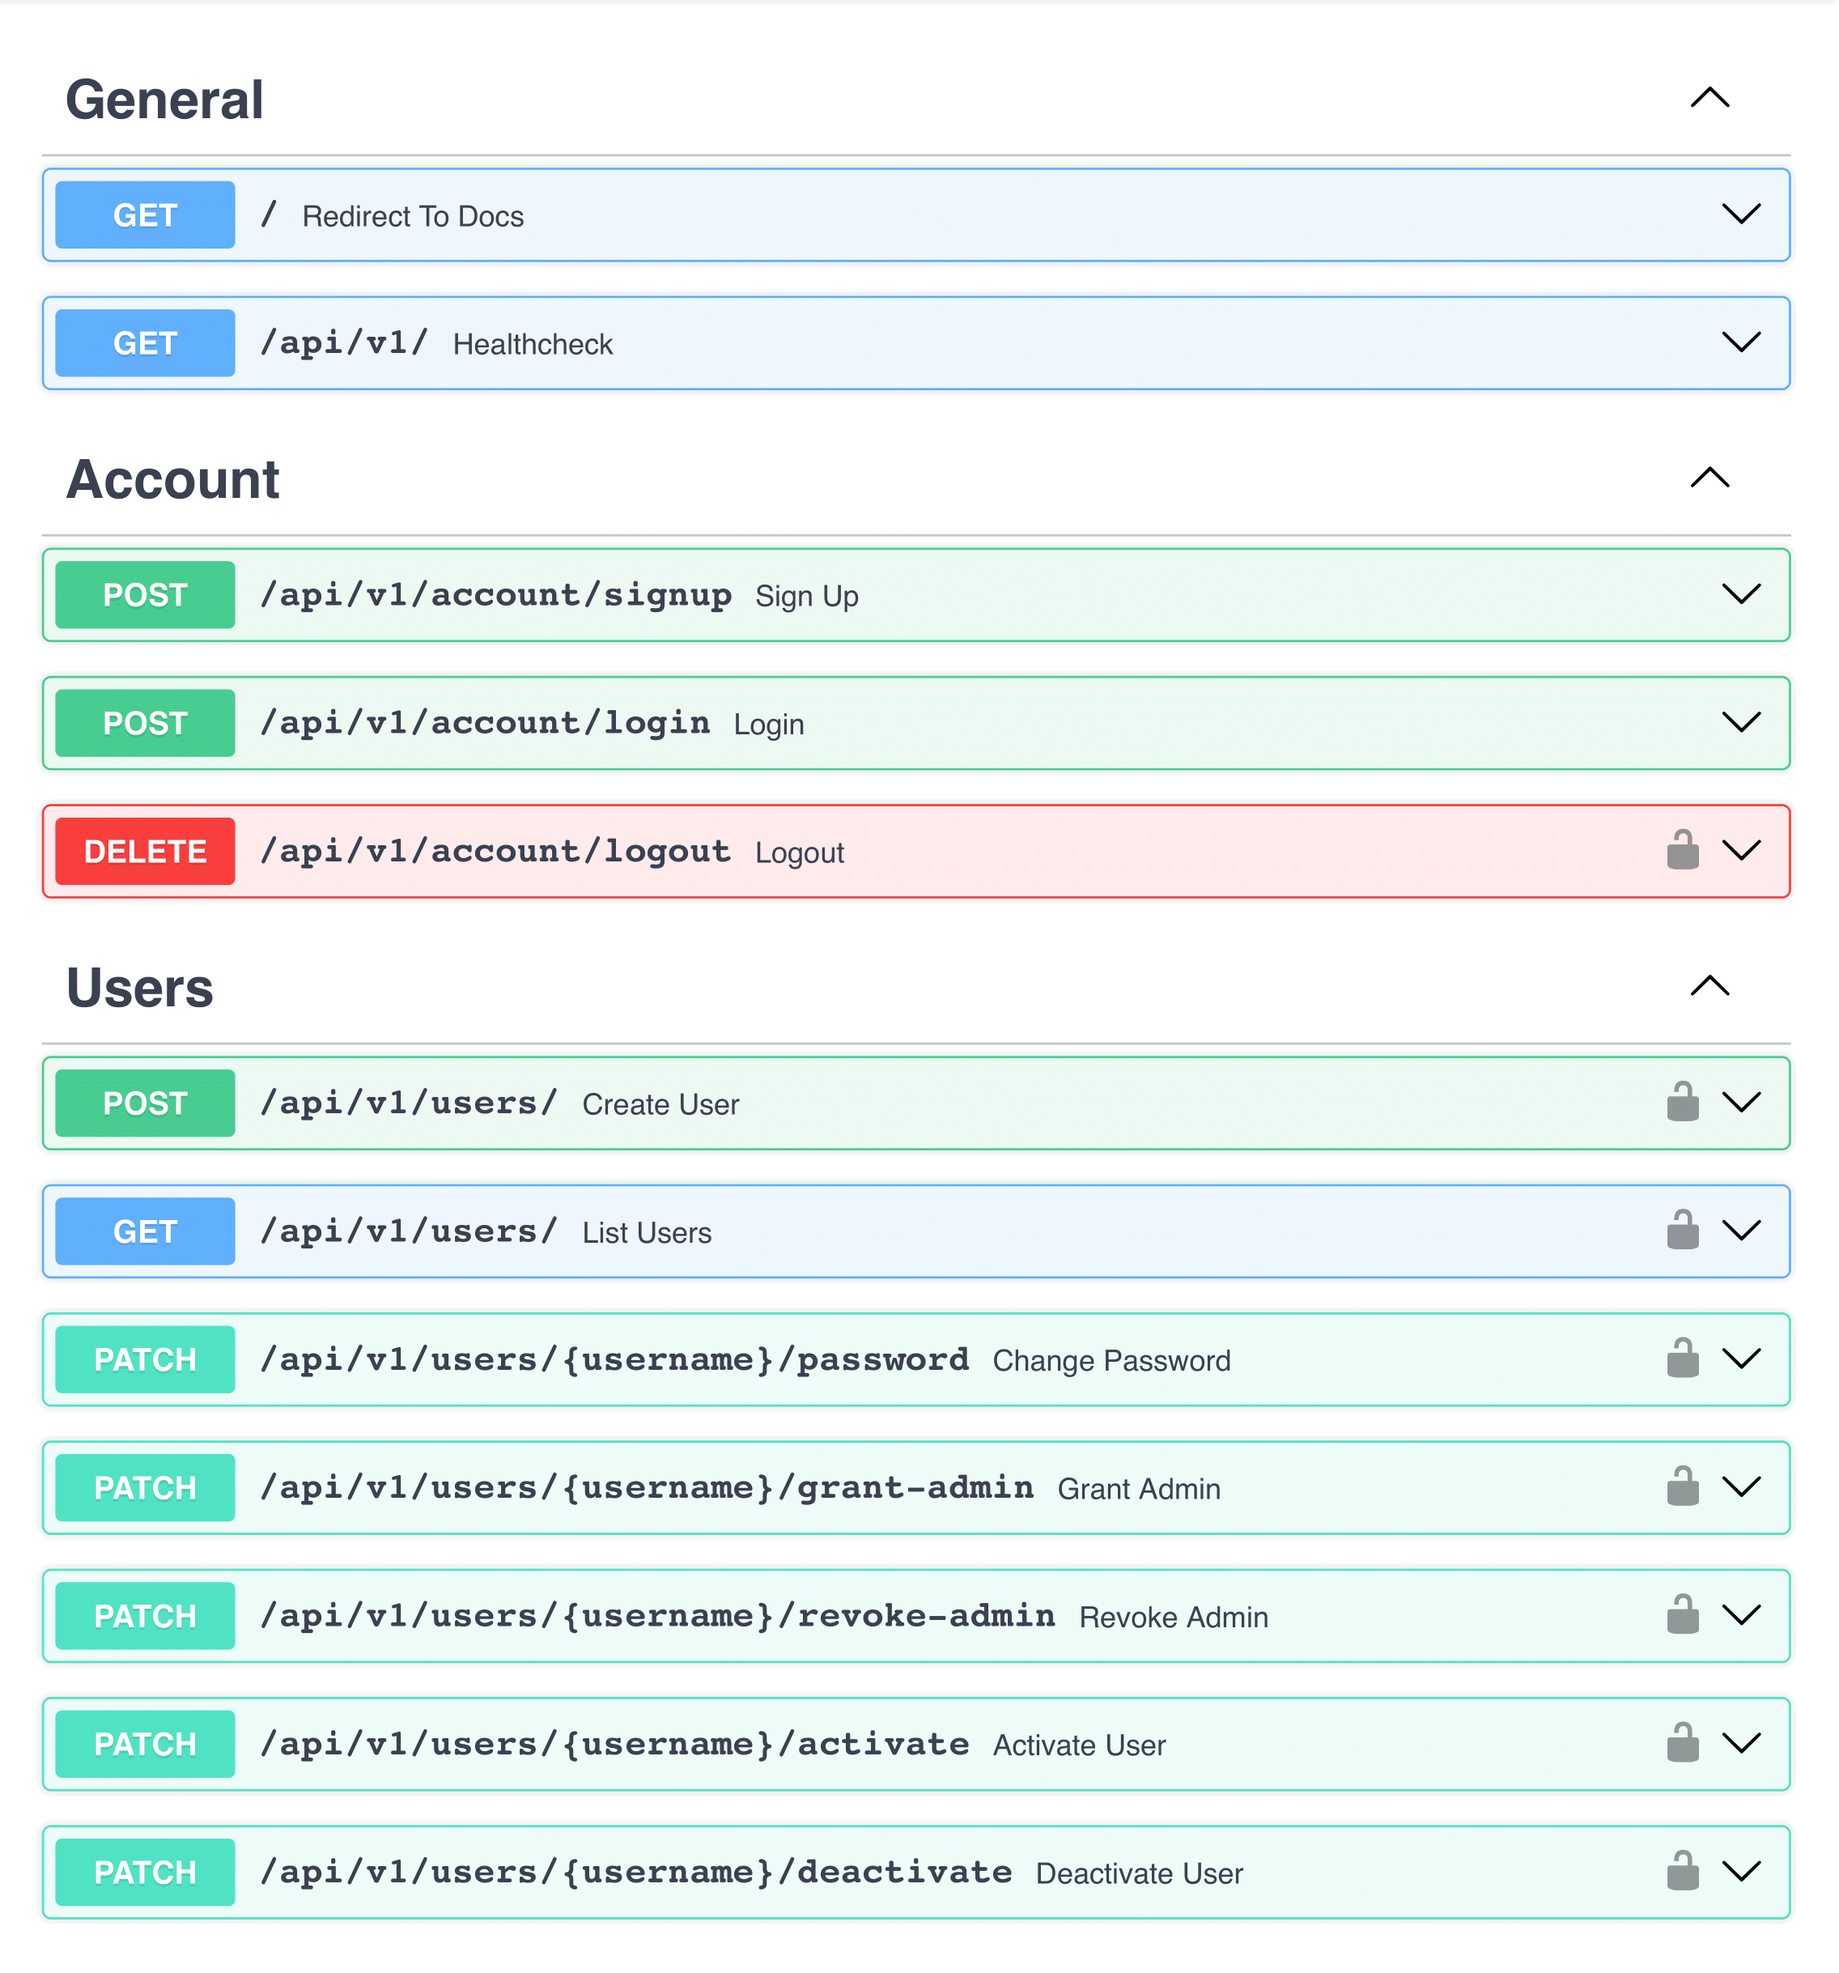
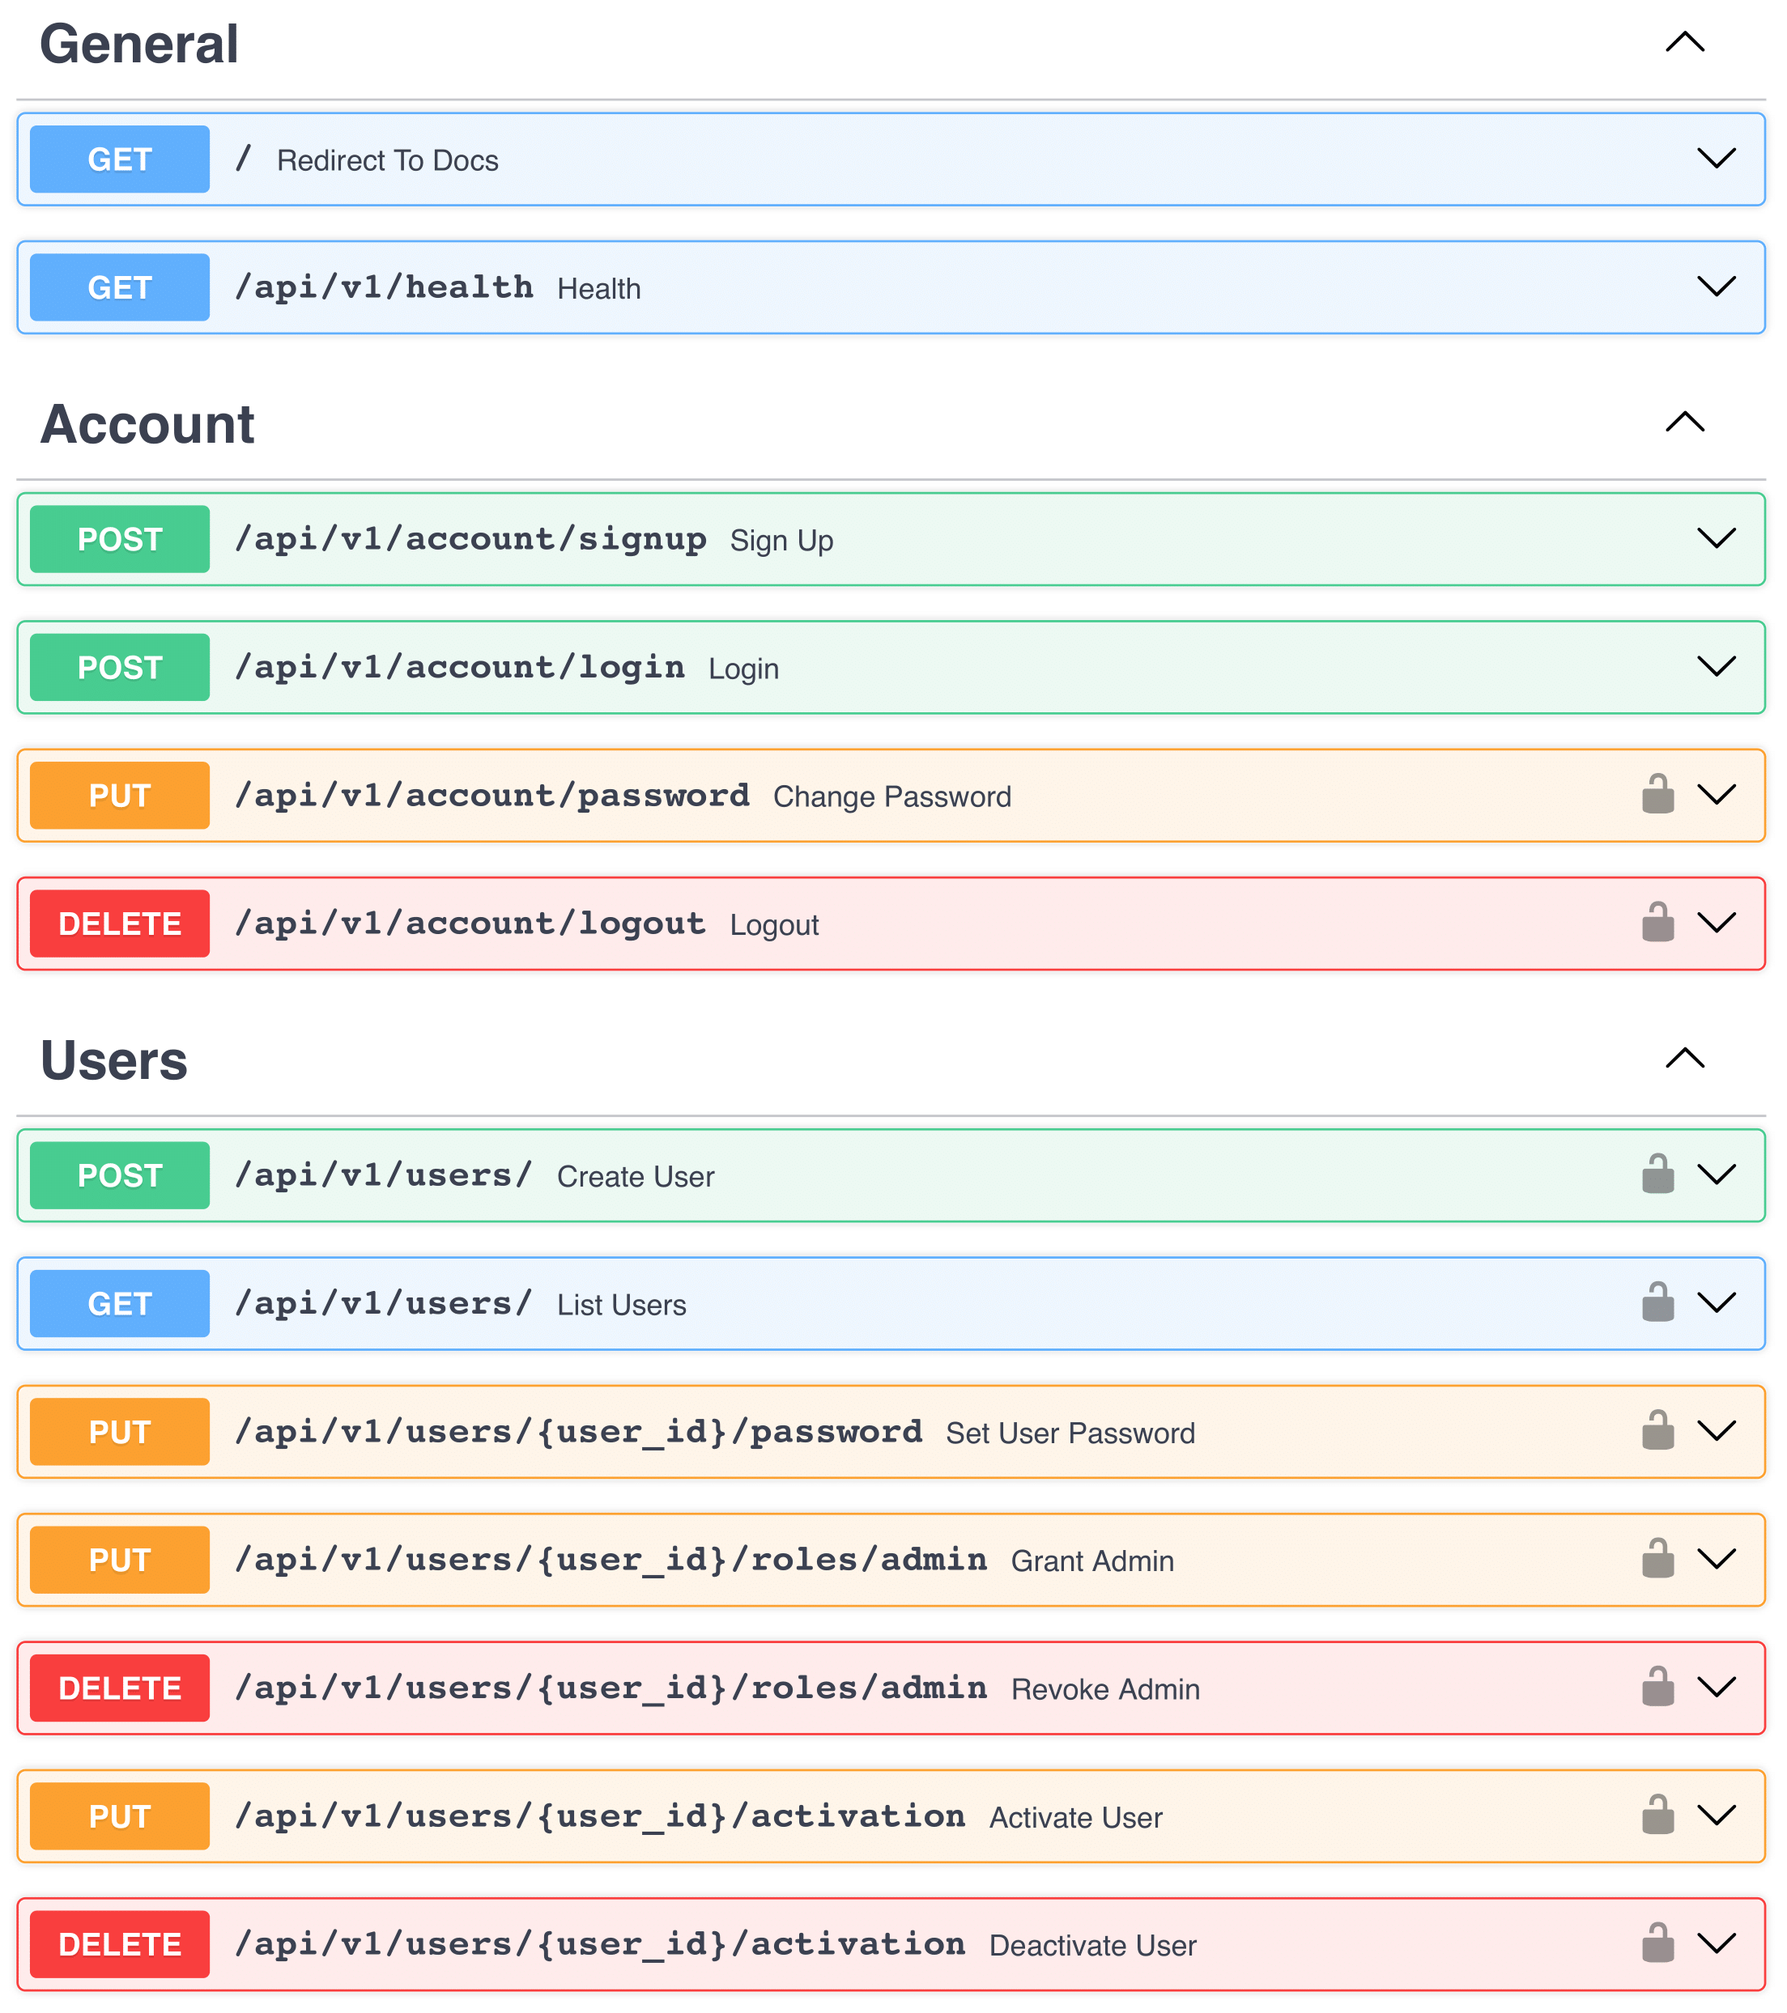
Align docs with recent changes

Changed region(s): [[0.0, 0.0, 1.0, 0.9979], [0.8935, 0.0312, 0.9551, 0.0624]]

diff --git a/src/app/infrastructure/auth/handlers/change_password.py b/src/app/infrastructure/auth/handlers/change_password.py
@@ -56,7 +56,6 @@ class ChangePasswordHandler:
         current_user = await self._current_user_service.get_current_user(
             for_update=True
         )
-        # TODO: update docs
 
         current_password = RawPassword(request_data.current_password)
         new_password = RawPassword(request_data.new_password)

diff --git a/src/app/application/commands/revoke_admin.py b/src/app/application/commands/revoke_admin.py
@@ -32,7 +32,7 @@ class RevokeAdminInteractor:
     """
     - Open to super admins.
     - Revokes admin rights from a specified user.
-    - Super admin rights can not be changed
+    - Super admin rights cannot be changed
     """
 
     def __init__(

diff --git a/src/app/application/commands/grant_admin.py b/src/app/application/commands/grant_admin.py
@@ -34,7 +34,7 @@ class GrantAdminInteractor:
     """
     - Open to super admins.
     - Grants admin rights to a specified user.
-    - Super admin rights can not be changed.
+    - Super admin rights cannot be changed.
     """
 
     def __init__(

diff --git a/README.md b/README.md
@@ -40,12 +40,12 @@ If they're new to you, refer to the [Useful Resources](#useful-resources) sectio
 
 ## Introduction
 
-This repository may be helpful for those seeking a backend implementation in Python that is both framework-agnostic
+This repository may be helpful for those seeking backend implementation in Python that is both framework-agnostic
 and storage-agnostic (unlike Django).
 Such flexibility can be achieved by using a web framework that doesn't impose strict software design (like FastAPI) and
 applying a layered architecture patterned after the one proposed by Robert Martin, which we'll explore further.
 
-The original explanation of the Clean Architecture concepts can be
+The original explanation of Clean Architecture concepts can be
 found [here](https://blog.cleancoder.com/uncle-bob/2012/08/13/the-clean-architecture.html).
 If you're still wondering why Clean Architecture matters, read the article — it only takes about 5 minutes.
 In essence, it’s about making your application independent of external systems and highly testable.
@@ -64,7 +64,7 @@ Being closer to implementation details, less abstract policies are more likely t
 **Layer** represents a collection of components expressing policies at the same level of abstraction.
 
 Concentric circles represent boundaries between different layers.
-The meaning of the arrows in the diagram will be discussed [later](#dependency-rule).
+The meaning of arrows in the diagram will be discussed [later](#dependency-rule).
 For now, we will focus on the purpose of the layers.
 
 ## Layered Approach
@@ -72,7 +72,7 @@ For now, we will focus on the purpose of the layers.
 ![#gold](https://placehold.co/15x15/gold/gold.svg) **Domain Layer**
 
 - **Domain model** is a set of concepts, rules and behaviors that define what business (context) is and how it operates.
-  It is expressed in a **ubiquitous language** — a consistent terminology shared by developers and domain experts.
+  It is expressed in **ubiquitous language** — consistent terminology shared by developers and domain experts.
   Domain layer implements domain model in code; this implementation is often called domain model.
 - The strictest domain rules are **invariants** — conditions that must always hold true for the model.
   Enforcing invariants means maintaining data consistency in the model.
@@ -92,16 +92,16 @@ For now, we will focus on the purpose of the layers.
       For components: anemic means no behavior within, rich — the contrary.
 - Domain services originally represent operations that don't naturally belong to a specific entity or value object.
   But in projects with anemic entities, they can also contain logic that would otherwise be in those entities.
-- In the early stages of development when the domain model is not yet clearly defined, 
+- In early stages of development when the domain model is not yet clearly defined,
   I'd recommend keeping entities flat and anemic, even though the latter weakens encapsulation.
-  Once the core logic is well established, some entities can, as aggregate roots, become non-flat and rich.
+  Once core logic is well established, some entities can, as aggregate roots, become non-flat and rich.
   This best enforces invariants but can be tricky to design once and for all.
 - Prefer rich value objects early, freeing entities and services from an excessive burden of local rules.
 - Consider domain layer the most important, stable, and independent part of a system.
 
 ![#red](https://placehold.co/15x15/red/red.svg) **Application Layer**
 
-- This layer implements the application-specific business logic by realizing steps of business-defined _**use cases**_.
+- This layer implements application-specific business logic by realizing steps of business-defined _**use cases**_.
 - Its main components are **interactors** — each handles a single business operation matching a step within a use case.
 - An interactor **orchestrates** domain logic and external calls needed to perform the operation.
 - Interactors are stateless, isolated, and do not call each other. Each is invoked independently — typically by external
@@ -167,7 +167,7 @@ In other words, dependencies must never point outwards within the application's 
 
 ### Note on Adapters
 
-The **Infrastructure layer** in the Clean Architecture acts as the adapter layer — connecting the application to
+The **Infrastructure layer** in Clean Architecture acts as the adapter layer — connecting the application to
 external systems.
 In this project, we treat both **Infrastructure** and **Presentation** as adapters, since both adapt the application to
 the outside world.
@@ -181,7 +181,7 @@ It doesn't strictly follow R. Martin's original concept but avoids introducing e
 implementations outside the application's boundaries.
 Pursuing purity on the outermost layer is more likely to result in overengineering than in practical gains.
 
-My approach retains nearly all the advantages of Clean Architecture while simplifying real-world development.
+My approach retains nearly all advantages of Clean Architecture while simplifying real-world development.
 When needed, adapters can be removed along with the external components they're written for, which isn't a
 significant issue.
 
@@ -207,7 +207,7 @@ Let's agree, for this project, that Dependency Rule **does not apply to adapters
 > external compared to typical adapters.
 
 - This layer handles external requests and includes **controllers** that validate inputs and pass them to the
-  interactors in the Application layer. The more abstract layers of the program assume that request data is already
+  interactors in the Application layer. More abstract layers of the program assume that request data is already
   validated, allowing them to focus solely on their core logic.
 - Controllers must be as thin as possible, containing no logic beyond basic input validation and routing. Their
   role is to act as an intermediary between the application and external systems (e.g., FastAPI).
@@ -230,8 +230,8 @@ Let's agree, for this project, that Dependency Rule **does not apply to adapters
 ![#gray](https://placehold.co/15x15/gray/gray.svg) **External Layer**
 
 > [!NOTE]
-> In the original diagram, the external components are included in the blue layer (Frameworks & Drivers).
-> I've marked them in gray to clearly distinguish them from the layers within the application's boundaries.
+> In the original diagram, external components are included in the blue layer (Frameworks & Drivers).
+> I've marked them in gray to clearly distinguish them from layers within the application's boundaries.
 
 - This layer represents fully external components such as web frameworks (e.g. FastAPI itself), databases, third-party
   APIs, and other services.
@@ -246,7 +246,7 @@ Let's agree, for this project, that Dependency Rule **does not apply to adapters
 ## Dependency Inversion
 
 The **dependency inversion** technique enables reversing dependencies **by introducing an interface** between
-components, allowing the inner layer to communicate with the outer layer while adhering to the Dependency Rule.
+components, allowing an inner layer to communicate with an outer layer while adhering to the Dependency Rule.
 
 <p align="center">
   <img src="docs/dep_graph_inv_corrupted.svg" alt="Corrupted Dependency" />
@@ -265,10 +265,10 @@ affect the Application layer.
 
 In the correct design, the Application layer component depends on an **abstraction (port)**, and the Infrastructure
 layer component **implements** the corresponding interface.
-This makes the Infrastructure component an adapter for the port, effectively turning it into a plugin for the
+This makes the Infrastructure component an adapter for the port, effectively turning it into a plugin for
 Application layer.
 Such a design adheres to the **Dependency Inversion Principle (DIP)**, minimizing the impact of infrastructure changes
-on the core business logic.
+on core business logic.
 
 ## Dependency Injection
 
@@ -279,7 +279,7 @@ From this definition, it's clear that one common way to implement DI is by passi
 
 But how exactly should these dependencies be initialized (and finalized)?
 
-**DI frameworks** offer an elegant solution by automatically creating the necessary objects (while managing their
+**DI frameworks** offer an elegant solution by automatically creating necessary objects (while managing their
 **lifecycle**) and injecting them where needed.
 This makes the process of dependency injection much cleaner and easier to manage.
 
@@ -487,23 +487,26 @@ natural.
 
 ### General
 
-- `/`: Open to **everyone**.
+- `/` (GET): Open to **everyone**.
     - Redirects to Swagger documentation.
-- `/api/v1/`: Open to **everyone**.
+- `/api/v1/health` (GET): Open to **everyone**.
     - Returns `200 OK` if the API is alive.
 
 ### Account (`/api/v1/account`)
 
-- `/signup`: Open to **everyone**.
+- `/signup` (POST): Open to **everyone**.
     - Registers a new user with validation and uniqueness checks.
     - Passwords are peppered, salted, and stored as hashes.
     - A logged-in user cannot sign up until the session expires or is terminated.
-- `/login`: Open to **everyone**.
+- `/login` (POST): Open to **everyone**.
     - Authenticates registered user, sets a JWT access token with a session ID in cookies, and creates a session.
     - A logged-in user cannot log in again until the session expires or is terminated.
     - Authentication renews automatically when accessing protected routes before expiration.
     - If the JWT is invalid, expired, or the session is terminated, the user loses authentication. [^1]
-- `/logout`: Open to **authenticated users**.
+- `/password` (PUT): Open to **authenticated users**.
+    - The current user can change their password.
+    - New password must differ from current password.
+- `/logout` (DELETE): Open to **authenticated users**.
     - Logs the user out by deleting the JWT access token from cookies and removing the session from the database.
 
 ### Users (`/api/v1/users`)
@@ -513,20 +516,18 @@ natural.
     - Only super admins can create new admins.
 - `/` (GET): Open to **admins**.
     - Retrieves a paginated list of existing users with relevant information.
-- `/{username}/password`: Open to **authenticated users**.
-    - Changes the user's password.
-    - The current user can change their own password.
-    - Admins can change passwords of subordinate users.
-- `/{username}/grant-admin`: Open to **super admins**.
+- `/{user_id}/password` (PUT): Open to **admins**.
+    - Admins can set passwords of subordinate users.
+- `/{user_id}/roles/admin` (PUT): Open to **super admins**.
     - Grants admin rights to a specified user.
-    - Super admin rights can not be changed.
-- `/{username}/revoke-admin`: Open to **super admins**.
+    - Super admin rights cannot be changed.
+- `/{user_id}/roles/admin` (DELETE): Open to **super admins**.
     - Revokes admin rights from a specified user.
-    - Super admin rights can not be changed.
-- `/{username}/activate`: Open to **admins**.
+    - Super admin rights cannot be changed.
+- `/{user_id}/activation` (PUT): Open to **admins**.
     - Restores a previously soft-deleted user.
     - Only super admins can activate other admins.
-- `/{username}/deactivate`: Open to **admins**.
+- `/{user_id}/activation` (DELETE): Open to **admins**.
     - Soft-deletes an existing user, making that user inactive.
     - Also deletes the user's sessions.
     - Only super admins can deactivate other admins.
